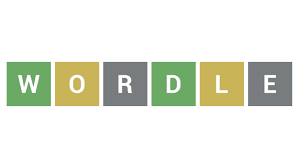
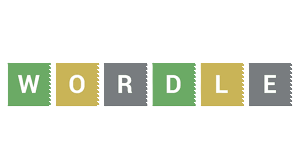
Front end work done

Changed region(s): [[0.0, 0.3571, 0.9933, 0.625]]

diff --git a/newmain.py b/newmain.py
@@ -32,6 +32,13 @@ pygame.display.set_caption("Wordle")
 #screen.fill('gray26')
 screen.fill('aquamarine4')
 
+logo_image = pygame.image.load('assets/newlogo.png')
+logo_width = 375
+logo_height = 75
+logo_image = pygame.transform.scale(logo_image, (logo_width, logo_height))
+logo_x = (SCREEN_WIDTH - logo_image.get_width()) // 2
+logo_y = 3
+
 # Initialize the game clock to control FPS
 clock = pygame.time.Clock()
 
@@ -59,7 +66,7 @@ example_font = pygame.font.Font(font_type, font_size)
 
 
 def displayWords(guesses, correct):
-    x_cord = 100
+    x_cord = 120
     y_cord = 100
     row = 0
     for guess in guesses:
@@ -92,7 +99,7 @@ def displayWords(guesses, correct):
             screen.blit(text, (text_x, text_y)) #added * row
 
 def displayGuess(guess, row):
-    x_cord = 100
+    x_cord = 120
     y_cord = 100 + (100 * row)
     column = 0
     for letter in guess:
@@ -107,22 +114,22 @@ def displayGuess(guess, row):
         text_x = square_center_x - text_width / 2 #added
         text_y = square_center_y - text_height / 2
 
-        screen.blit(incorrect_surface, (x_cord * column, y_cord))
+        screen.blit(incorrect_surface, (x_cord * column, y_cord)) #CHANGES GO HERE
+        #screen.blit(incorrect_surface, (x_cord * column, y_cord * row))
     
         #screen.blit(text, (x_cord * column, y_cord))
         screen.blit(text, (text_x, text_y)) #added
 
 def displayEmptyBoard():
-    x_cord = 100
+    screen.blit(logo_image, (logo_x, logo_y))
+    x_cord = 120
     y_cord = 100
     for row in range(1, 7):
         for column in range(1, 6):
             square_center_x = x_cord * column + width / 2
             square_center_y = y_cord * row + height / 2
 
-            screen.blit(incorrect_surface, (x_cord * column, y_cord * row))
-
-
+            screen.blit(incorrect_surface, (x_cord * column, y_cord * row)) #added -20
 
 if __name__ == "__main__": #print game board w squares
     guesses = []
